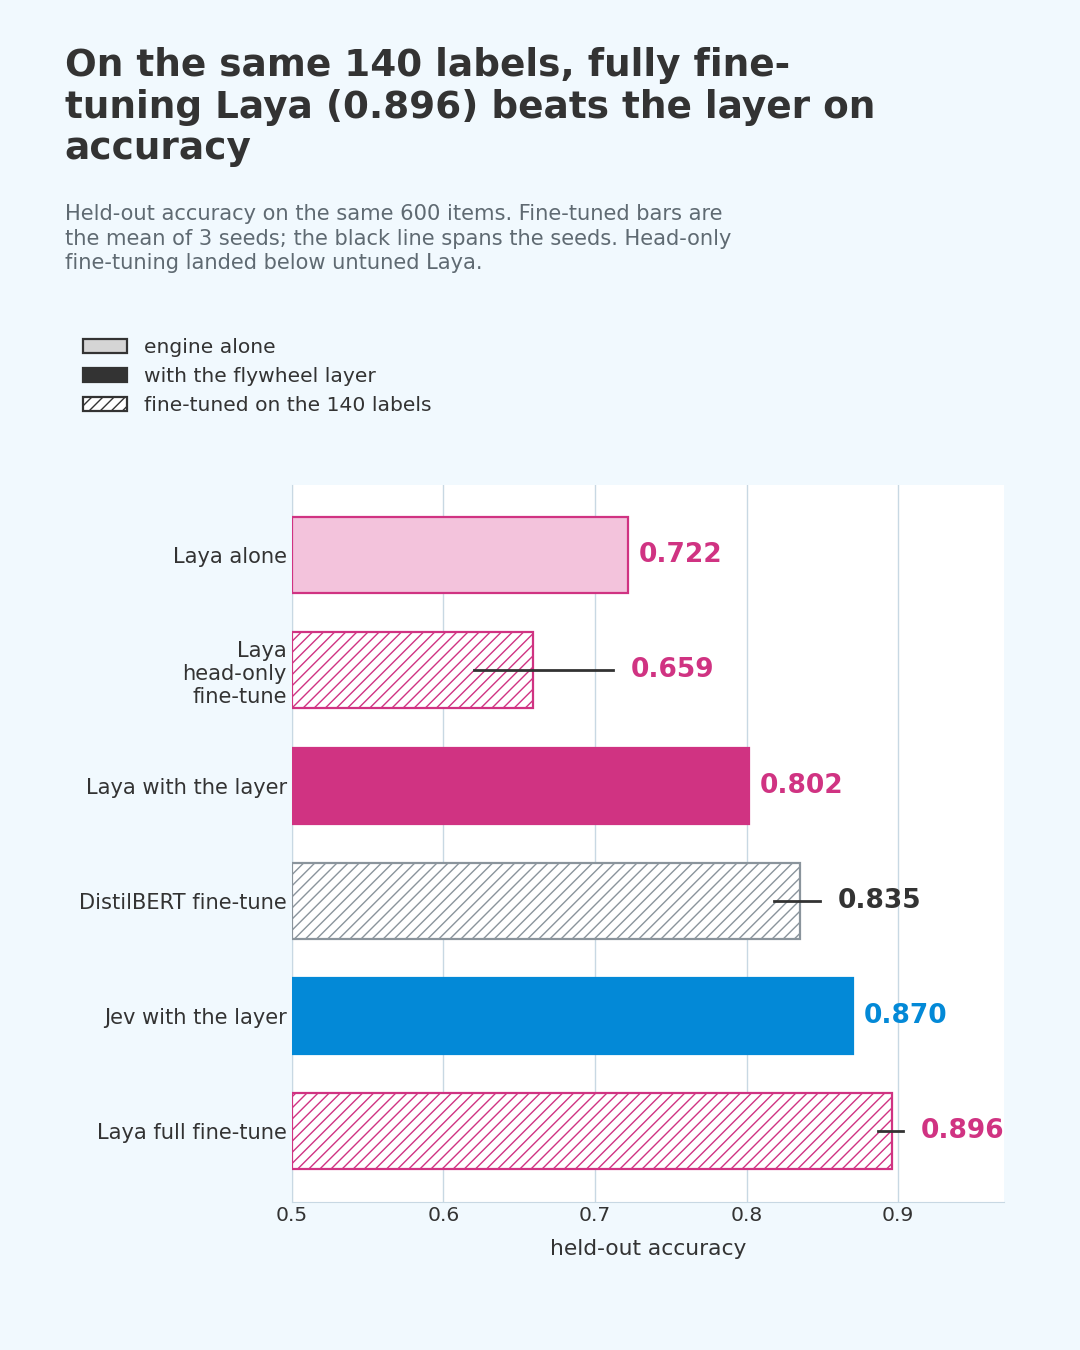
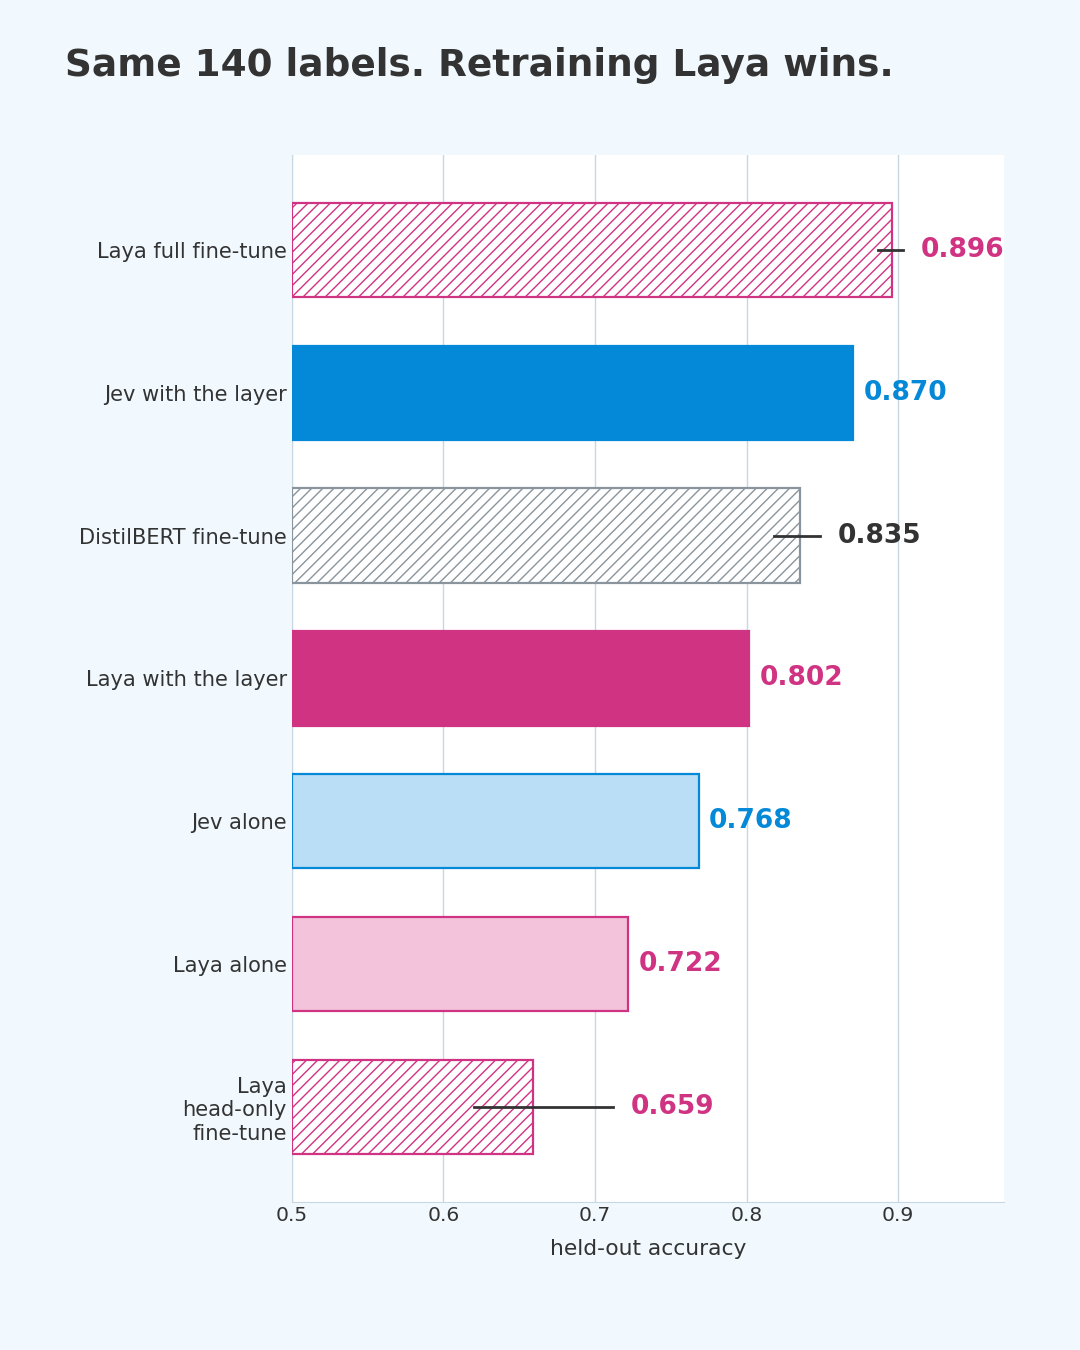
Pin site content: simpler Jev vs Laya fine-tune chart

Changed region(s): [[0.0611, 0.2489, 0.9472, 0.8711], [0.0611, 0.1244, 0.9167, 0.2178], [0.0611, 0.0311, 0.825, 0.1244]]

diff --git a/scripts/generate-jev-vs-laya-charts.py b/scripts/generate-jev-vs-laya-charts.py
@@ -275,25 +275,22 @@ def chart_finetune(paired, arms, layout):
     a, b, d = arms[("A", 140)], arms[("B", 140)], arms[("D", 140)]
     sa, sb, sd = stat(a, "paper600_accuracy"), stat(b, "paper600_accuracy"), stat(d, "paper600_accuracy")
     items = [
-        ("Laya\nalone", paired[("laya", "alone")]["accuracy"], None, MAGENTA, "alone"),
         ("Laya\nhead-only\nfine-tune", sb[0], sb[1:], MAGENTA, "tuned"),
+        ("Laya\nalone", paired[("laya", "alone")]["accuracy"], None, MAGENTA, "alone"),
+        ("Jev\nalone", paired[("jev", "alone")]["accuracy"], None, BLUE, "alone"),
         ("Laya\nwith the layer", paired[("laya", "layer")]["accuracy"], None, MAGENTA, "layer"),
         ("DistilBERT\nfine-tune", sd[0], sd[1:], GRAY, "tuned"),
         ("Jev\nwith the layer", paired[("jev", "layer")]["accuracy"], None, BLUE, "layer"),
         ("Laya\nfull\nfine-tune", sa[0], sa[1:], MAGENTA, "tuned"),
     ]
-    fig, axes, scale, orient, top = new_figure(
-        layout,
-        f"On the same 140 labels, fully fine-tuning Laya ({sa[0]:.3f}) beats the layer on accuracy",
-        "Held-out accuracy on the same 600 items. Fine-tuned bars are the mean of 3 seeds; the black line spans "
-        "the seeds. Head-only fine-tuning landed below untuned Laya.")
+    # No subtitle and no legend: every bar is labelled with its engine and its method, and the
+    # article's caption carries the detail. A social image gets one line to land.
+    fig, axes, scale, orient, top = new_figure(layout, "Same 140 labels. Retraining Laya wins.", "")
+    if orient == "h":
+        items = items[::-1]   # winner on top when the bars are horizontal
     bars(axes[0][0], orient, scale, items, 0.5, 0.97, value_label="held-out accuracy")
-    legend(fig, scale, top + 0.012, ncol=3 if orient == "v" else 1)
-    footer = LAYOUTS[layout][3]
-    note(fig, scale, "Source: Jev-Flywheel studies/finetune_laya.jsonl (arms A, B, D) and studies/laya_paired.jsonl. "
-         "A templated corpus with a lexical cue flatters any text classifier.", footer=footer)
     fig.subplots_adjust(left=0.27 if orient == "h" else 0.09, right=0.93,
-                        top=top - (0.05 if orient == "v" else 0.11), bottom=0.2 if orient == "v" else 0.19)
+                        top=top + 0.02, bottom=0.2 if orient == "v" else 0.19)
     save(fig, "finetune", layout)
 
 
